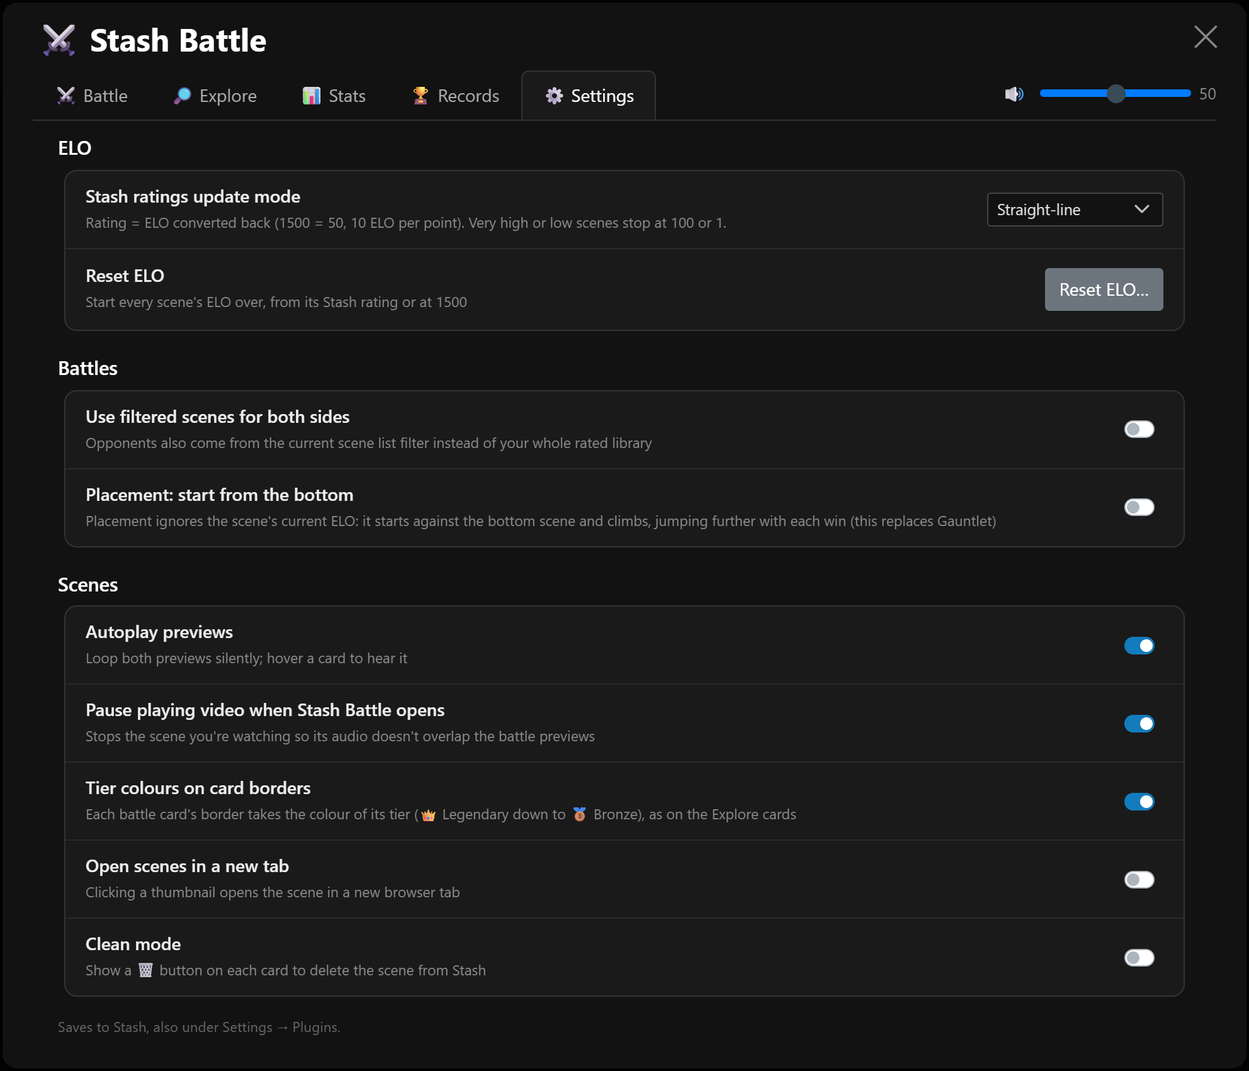
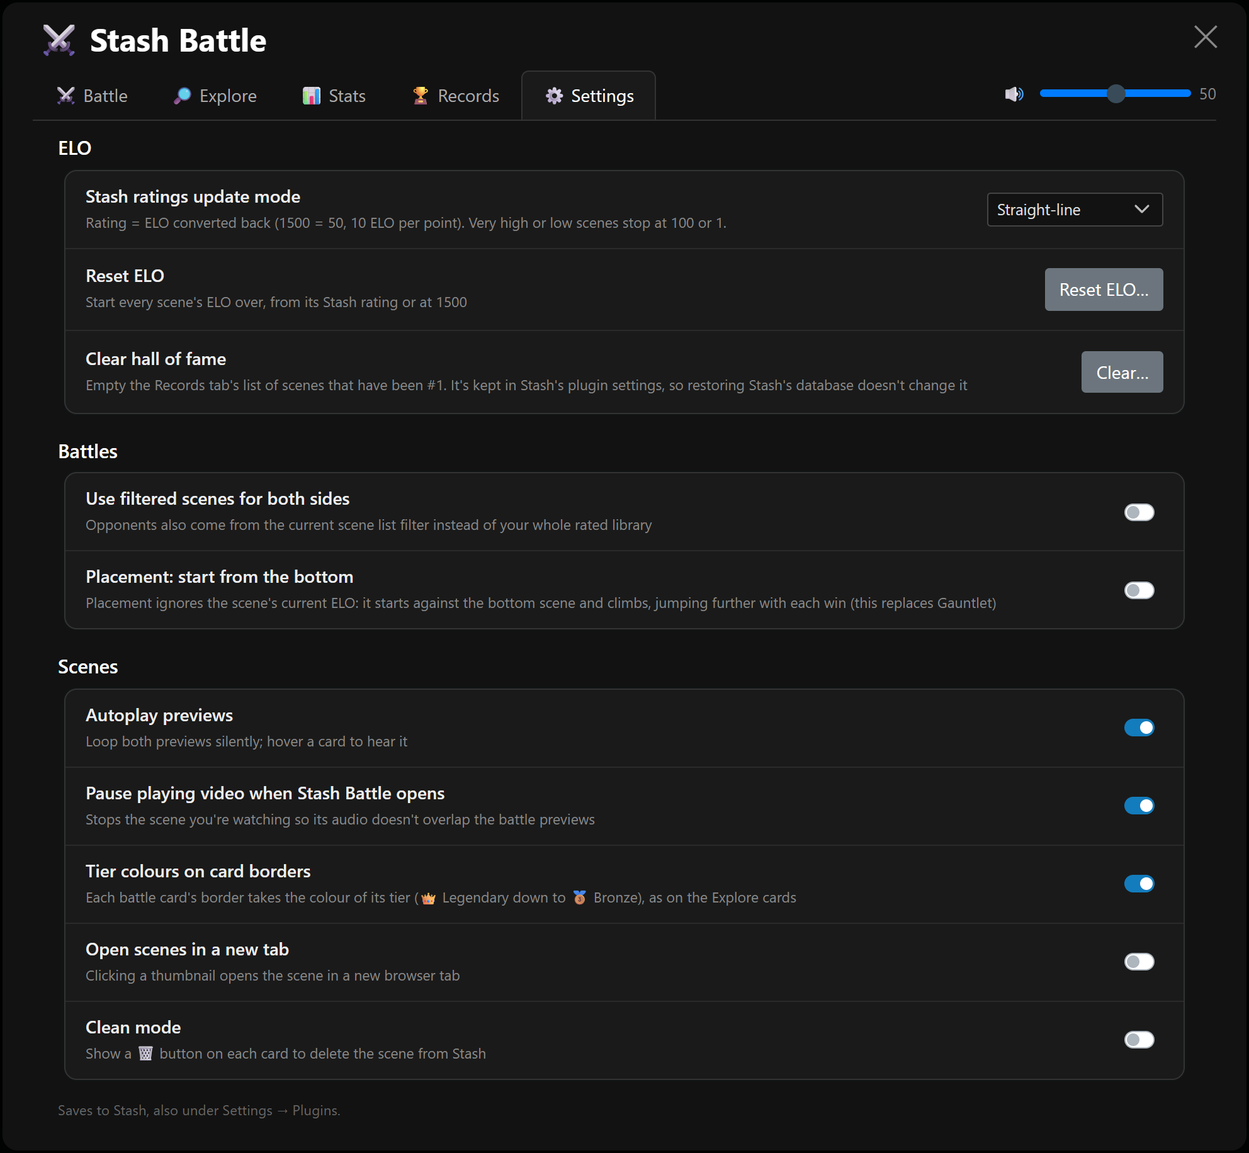
Clear hall of fame setting; undo puts back an unrated scene's Stash rating.
Settings → ELO → Clear hall of fame empties the list after a confirmation.
It lives in Stash's plugin settings (config.yml), so a database restore
leaves it. Undoing a pick that rated an unrated scene now restores the
Stash rating the sync gave it, in the same write that removes its ELO:
the sync only writes scenes with an ELO, so it never took it back.

diff --git a/plugins/stash-battle/stash-battle.js b/plugins/stash-battle/stash-battle.js
@@ -1430,7 +1430,7 @@
   }
   async function clearHallOfFame() {
     hallOfFame = [];
-    await saveConfig({ [HALL_OF_FAME_KEY]: null });
+    return saveConfig({ [HALL_OF_FAME_KEY]: null });
   }
   function updateSettings(patch) {
     state.settings = normalize({ ...state.settings, ...patch }, state.settings);
@@ -1470,12 +1470,13 @@
     if (a === null || b === null) return a === b;
     return JSON.stringify(eloCustomFields(a)) === JSON.stringify(eloCustomFields(b));
   }
-  async function saveEloFields(scene, value, customFields, what) {
+  async function saveEloFields(scene, value, customFields, what, rating100) {
     const previous = eloFields(latestScene(scene));
     setEloInCache(scene, value);
     refreshStashCache([{ id: scene.id, elo: value }], false);
     try {
-      await graphqlQuery(SCENE_UPDATE_MUTATION, { input: { id: scene.id, custom_fields: customFields } });
+      const input = { id: scene.id, custom_fields: customFields, ...rating100 !== void 0 ? { rating100 } : {} };
+      await graphqlQuery(SCENE_UPDATE_MUTATION, { input });
     } catch (e) {
       reportWriteError(scene.id, what, e);
       if (sameElo(eloFields(latestScene(scene)), value)) {
@@ -1483,6 +1484,10 @@
         refreshStashCache([{ id: scene.id, elo: previous }], false);
       }
       return false;
+    }
+    if (rating100 !== void 0) {
+      setRatingsInCache(/* @__PURE__ */ new Map([[scene.id, rating100]]));
+      refreshStashCache([{ id: scene.id, rating100 }], true);
     }
     scheduleStashRatingSync();
     return true;
@@ -1510,10 +1515,12 @@
     const top = state.memoryCache.allScenes?.[0];
     if (top && isRated(top) && !getHallOfFame().some((e) => e.id === top.id)) void addToHallOfFame(top.id);
   }
-  async function restoreElo(scene, value) {
-    if (sameElo(eloFields(latestScene(scene)), value)) return;
+  async function restoreElo(scene, value, rating100 = null) {
+    const current = latestScene(scene);
+    if (sameElo(eloFields(current), value)) return;
     const customFields = value ? { partial: eloCustomFields(value), ...value.record ? {} : { remove: RECORD_FIELD_KEYS } } : { remove: ELO_FIELD_KEYS };
-    if (await saveEloFields(scene, value, customFields, "undo ELO")) {
+    const ratingBack = value === null && (current.rating100 ?? null) !== rating100 ? rating100 : void 0;
+    if (await saveEloFields(scene, value, customFields, "undo ELO", ratingBack)) {
       console.log(`[Stash Battle] ↶ Restored scene ${scene.id} ELO ${value ? value.elo : "(unrated)"}`);
     }
   }
@@ -2360,6 +2367,12 @@
           title: "Reset ELO",
           hint: "Start every scene's ELO over, from its Stash rating or at 1500",
           button: "Reset ELO…"
+        },
+        {
+          action: "clear-hall-of-fame",
+          title: "Clear hall of fame",
+          hint: "Empty the Records tab's list of scenes that have been #1. It's kept in Stash's plugin settings, so restoring Stash's database doesn't change it",
+          button: "Clear…"
         }
       ]
     },
@@ -4016,7 +4029,7 @@
       left: choice.left,
       right: choice.right,
       ranks: [state.currentRanks.left, state.currentRanks.right],
-      fields: written.map((scene) => ({ scene, value: eloFields(latestScene(scene)) })),
+      fields: written.map((scene) => ({ scene, value: eloFields(latestScene(scene)), rating100: latestScene(scene).rating100 ?? null })),
       championScene: state.championScene,
       championWins: state.championWins,
       championDefeated: [...state.championDefeated],
@@ -4049,7 +4062,7 @@
     state.disableChoice = true;
     try {
       await eloWritesSettled();
-      await Promise.all(pick.fields.map(({ scene, value }) => restoreElo(scene, value)));
+      await Promise.all(pick.fields.map(({ scene, value, rating100 }) => restoreElo(scene, value, rating100)));
       await keepOnlyHallOfFame(pick.hallIds);
     } catch (e) {
       console.error("[Stash Battle] Undo couldn't put everything back:", e);
@@ -4646,6 +4659,21 @@
       })
     });
   }
+  async function confirmClearHallOfFame() {
+    const count = getHallOfFame().length;
+    await confirmDialog({
+      title: "Clear the hall of fame?",
+      body: `
+        <p>${count === 0 ? "The hall of fame is already empty." : `The ${plural(count, "scene")} that ${count === 1 ? "has" : "have"} been #1 will be taken off the list.`}
+        Your current #1 joins it again, from today, the next time you battle or open Records.</p>
+        <p>ELO and records aren't touched.</p>`,
+      confirmLabel: "Clear hall of fame",
+      workingLabel: "Clearing…",
+      action: async () => {
+        if (!await clearHallOfFame()) throw new Error("Couldn't save to Stash. Try again.");
+      }
+    });
+  }
   async function startResetElo(modal) {
     const ratingsOn = state.settings.stashRatings !== "off";
     const ok = await confirmDialog({
@@ -4929,6 +4957,7 @@
       stopExplorePool();
     });
     modal.querySelector('[data-action="reset-elo"]')?.addEventListener("click", () => void startResetElo(modal));
+    modal.querySelector('[data-action="clear-hall-of-fame"]')?.addEventListener("click", () => void confirmClearHallOfFame());
     modal.querySelector('[data-action="open-settings"]')?.addEventListener("click", (e) => {
       e.preventDefault();
       showTab(modal, "settings");

diff --git a/src/rating.ts b/src/rating.ts
@@ -38,12 +38,19 @@ function sameElo(a: EloFields | null, b: EloFields | null): boolean {
  * already sees the change), then write to Stash. If the write fails, put the old value back,
  * unless a later write has replaced it since. Stash ratings sync only after a successful write.
  */
-async function saveEloFields(scene: Scene, value: EloFields | null, customFields: Record<string, unknown>, what: string): Promise<boolean> {
+async function saveEloFields(
+  scene: Scene,
+  value: EloFields | null,
+  customFields: Record<string, unknown>,
+  what: string,
+  rating100?: number | null,
+): Promise<boolean> {
   const previous = eloFields(latestScene(scene));
   setEloInCache(scene, value);
   refreshStashCache([{ id: scene.id, elo: value }], false);
   try {
-    await graphqlQuery(SCENE_UPDATE_MUTATION, { input: { id: scene.id, custom_fields: customFields } });
+    const input = { id: scene.id, custom_fields: customFields, ...(rating100 !== undefined ? { rating100 } : {}) };
+    await graphqlQuery(SCENE_UPDATE_MUTATION, { input });
   } catch (e) {
     reportWriteError(scene.id, what, e);
     if (sameElo(eloFields(latestScene(scene)), value)) {
@@ -51,6 +58,10 @@ async function saveEloFields(scene: Scene, value: EloFields | null, customFields
       refreshStashCache([{ id: scene.id, elo: previous }], false);
     }
     return false;
+  }
+  if (rating100 !== undefined) {
+    setRatingsInCache(new Map([[scene.id, rating100]]));
+    refreshStashCache([{ id: scene.id, rating100 }], true);
   }
   scheduleStashRatingSync();
   return true;
@@ -96,13 +107,20 @@ export function noteTopScene(): void {
  * Put a scene's ELO fields back exactly as `value` (undo): a scene that had no record loses the
  * record fields its pick created, and one that was unrated loses its ELO again. Nothing is
  * written when they already match.
+ *
+ * A scene going back to unrated also gets its Stash rating from before (`rating100`) in the same
+ * write: the sync gave it one from its new ELO, and the sync only writes scenes that have an ELO,
+ * so it would never undo that itself. Rated scenes' ratings follow their restored ELO on the
+ * next sync.
  */
-export async function restoreElo(scene: Scene, value: EloFields | null): Promise<void> {
-  if (sameElo(eloFields(latestScene(scene)), value)) return;
+export async function restoreElo(scene: Scene, value: EloFields | null, rating100: number | null = null): Promise<void> {
+  const current = latestScene(scene);
+  if (sameElo(eloFields(current), value)) return;
   const customFields = value
     ? { partial: eloCustomFields(value), ...(value.record ? {} : { remove: RECORD_FIELD_KEYS }) }
     : { remove: ELO_FIELD_KEYS };
-  if (await saveEloFields(scene, value, customFields, "undo ELO")) {
+  const ratingBack = value === null && (current.rating100 ?? null) !== rating100 ? rating100 : undefined;
+  if (await saveEloFields(scene, value, customFields, "undo ELO", ratingBack)) {
     console.log(`[Stash Battle] ↶ Restored scene ${scene.id} ELO ${value ? value.elo : "(unrated)"}`);
   }
 }

diff --git a/src/ui/modal.ts b/src/ui/modal.ts
@@ -6,7 +6,7 @@ import { scenesListQuery } from "../filters";
 import { getSceneIdFromUrl, holdStashListRefresh, sceneCustomFieldsSupported } from "../graphql";
 import { applyStashRatings, queueRatingWrite, SCENE_MISSING_EVENT, scheduleStashRatingSync, writeStashRatings } from "../rating";
 import { stashRatingChanges } from "../score";
-import { loadSettings } from "../settings";
+import { clearHallOfFame, getHallOfFame, loadSettings } from "../settings";
 import { isEloSetupPending, resetRunState, resetShuffle, state } from "../state";
 import { loadState, saveState } from "../storage";
 import type { Mode, Settings, StashRatingsMode } from "../types";
@@ -29,7 +29,7 @@ import {
   verifyCurrentPair,
 } from "./mainUI";
 import { renderExploreTab, setExploreFilters } from "./exploreTab";
-import { stopMiniPreview } from "./miniCard";
+import { plural, stopMiniPreview } from "./miniCard";
 import { renderRecordsTab } from "./recordsTab";
 import { renderStatsTab, type StatsActions } from "./statsTab";
 import { bindSettingsControls, getActiveTab, showTab, syncSettingsControls } from "./settingsPanel";
@@ -98,6 +98,23 @@ async function confirmSettingChange(key: keyof Settings, value: string): Promise
 }
 
 /** Settings → Reset ELO: confirm, then show the setup choices again (Cancel goes back). */
+/** Settings → Clear hall of fame: after a confirmation, empty the list (today's #1 starts it again). */
+async function confirmClearHallOfFame(): Promise<void> {
+  const count = getHallOfFame().length;
+  await confirmDialog({
+    title: "Clear the hall of fame?",
+    body: `
+        <p>${count === 0 ? "The hall of fame is already empty." : `The ${plural(count, "scene")} that ${count === 1 ? "has" : "have"} been #1 will be taken off the list.`}
+        Your current #1 joins it again, from today, the next time you battle or open Records.</p>
+        <p>ELO and records aren't touched.</p>`,
+    confirmLabel: "Clear hall of fame",
+    workingLabel: "Clearing…",
+    action: async () => {
+      if (!(await clearHallOfFame())) throw new Error("Couldn't save to Stash. Try again.");
+    },
+  });
+}
+
 async function startResetElo(modal: HTMLElement): Promise<void> {
   const ratingsOn = state.settings.stashRatings !== "off";
   const ok = await confirmDialog({
@@ -460,6 +477,7 @@ export async function openModal(): Promise<void> {
   });
 
   modal.querySelector('[data-action="reset-elo"]')?.addEventListener("click", () => void startResetElo(modal));
+  modal.querySelector('[data-action="clear-hall-of-fame"]')?.addEventListener("click", () => void confirmClearHallOfFame());
   // Battle tab note's "change in Settings" link
   modal.querySelector('[data-action="open-settings"]')?.addEventListener("click", (e) => {
     e.preventDefault();

diff --git a/src/ui/mainUI.ts b/src/ui/mainUI.ts
@@ -831,7 +831,7 @@ interface PickSnapshot {
   right: Scene;
   ranks: [Rank, Rank];
   /** The scenes the pick writes (Placement's scene is written when it lands), with their fields before. */
-  fields: { scene: Scene; value: EloFields | null }[];
+  fields: { scene: Scene; value: EloFields | null; rating100: number | null }[];
   championScene: Scene | null;
   championWins: number;
   championDefeated: string[];
@@ -851,7 +851,7 @@ function takePickSnapshot(choice: SceneChoice): PickSnapshot {
     left: choice.left,
     right: choice.right,
     ranks: [state.currentRanks.left, state.currentRanks.right],
-    fields: written.map((scene) => ({ scene, value: eloFields(latestScene(scene)) })),
+    fields: written.map((scene) => ({ scene, value: eloFields(latestScene(scene)), rating100: latestScene(scene).rating100 ?? null })),
     championScene: state.championScene,
     championWins: state.championWins,
     championDefeated: [...state.championDefeated],
@@ -897,7 +897,7 @@ export async function undoLastPick(): Promise<void> {
   state.disableChoice = true;
   try {
     await eloWritesSettled();
-    await Promise.all(pick.fields.map(({ scene, value }) => restoreElo(scene, value)));
+    await Promise.all(pick.fields.map(({ scene, value, rating100 }) => restoreElo(scene, value, rating100)));
     await keepOnlyHallOfFame(pick.hallIds);
   } catch (e) {
     console.error("[Stash Battle] Undo couldn't put everything back:", e);

diff --git a/src/ui/settingsPanel.ts b/src/ui/settingsPanel.ts
@@ -12,7 +12,7 @@ export type TabId = "battle" | "explore" | "stats" | "records" | "settings";
 
 type SettingRow =
   | { key: keyof Settings; title: string; hint: string; className?: string }
-  | { action: "reset-elo"; title: string; hint: string; button: string };
+  | { action: "reset-elo" | "clear-hall-of-fame"; title: string; hint: string; button: string };
 
 const SECTIONS: { title: string; rows: SettingRow[] }[] = [
   {
@@ -25,6 +25,12 @@ const SECTIONS: { title: string; rows: SettingRow[] }[] = [
         title: "Reset ELO",
         hint: "Start every scene's ELO over, from its Stash rating or at 1500",
         button: "Reset ELO…",
+      },
+      {
+        action: "clear-hall-of-fame",
+        title: "Clear hall of fame",
+        hint: "Empty the Records tab's list of scenes that have been #1. It's kept in Stash's plugin settings, so restoring Stash's database doesn't change it",
+        button: "Clear…",
       },
     ],
   },

diff --git a/src/settings.ts b/src/settings.ts
@@ -233,10 +233,10 @@ export async function keepOnlyHallOfFame(keepIds: readonly string[]): Promise<vo
   });
 }
 
-/** Empty the list (setup and Reset ELO start every record over). */
-export async function clearHallOfFame(): Promise<void> {
+/** Empty the list (setup, Reset ELO, Settings → Clear hall of fame). Resolves false if saving failed. */
+export async function clearHallOfFame(): Promise<boolean> {
   hallOfFame = [];
-  await saveConfig({ [HALL_OF_FAME_KEY]: null });
+  return saveConfig({ [HALL_OF_FAME_KEY]: null });
 }
 
 /** Update settings locally right away and persist to Stash (debounced, for sliders). */

diff --git a/src/cache.ts b/src/cache.ts
@@ -410,7 +410,7 @@ export function setEloInCache(scene: Scene, value: EloFields | null): void {
 }
 
 /** Set the Stash rating on cached scenes (after Stash Battle wrote them). Order is ELO, so unchanged. */
-export function setRatingsInCache(ratings: Map<string, number>): void {
+export function setRatingsInCache(ratings: Map<string, number | null>): void {
   for (const pool of [state.memoryCache.allScenes, state.memoryCache.filteredScenes]) {
     for (const scene of pool ?? []) {
       const rating = ratings.get(scene.id);

diff --git a/src/graphql.ts b/src/graphql.ts
@@ -81,7 +81,7 @@ export function sceneCustomFieldsSupported(): Promise<boolean> {
 /** A change Stash Battle wrote to a scene, to mirror into Stash's own page cache. */
 export interface StashCacheUpdate {
   id: string;
-  rating100?: number;
+  rating100?: number | null;
   /** New ELO fields, or null when they were removed. */
   elo?: EloFields | null;
 }

diff --git a/DOCUMENTATION.md b/DOCUMENTATION.md
@@ -535,7 +535,8 @@ The click handler is bound once per panel (`dataset.bound`), not on every render
 - `noteTopScene()` runs after each ELO write: if the library's #1 (the all-scenes cache's first scene) is rated and not in the list, `addToHallOfFame` adds it.
 - Saves go through `saveConfig`'s queue and **merge** with the stored list (`mergeHallOfFame`: one entry per scene, the earliest date kept, sorted by full time), so two tabs can't drop each other's entries.
 - `parseHallOfFame` drops anything unreadable: entries need a string id and a date `Date.parse` can read.
-- Setup and Reset ELO empty it (`clearHallOfFame`); undo removes an entry the undone pick added (`keepOnlyHallOfFame`).
+- Setup and Reset ELO empty it (`clearHallOfFame`), and so does **Settings → ELO → Clear hall of fame** (a confirmation dialog, `confirmClearHallOfFame` in `modal.ts`; the current #1 joins again on the next ELO write or Records opening). Undo removes an entry the undone pick added (`keepOnlyHallOfFame`).
+- **A database restore doesn't touch it.** Stash keeps plugin settings in its config file (`config.yml`), not the database, so restoring a database backup brings back old scenes, ELO and records but leaves the hall of fame (and every other Stash Battle setting, `eloSetupAt` included) as they were. That's what Clear hall of fame is for.
 
 ---
 
@@ -545,7 +546,7 @@ The click handler is bound once per panel (`dataset.bound`), not on every render
 
 - `handleSceneChoice` takes a `PickSnapshot` before the pick: the mode, the pair and its ranks, the ELO fields of every scene the pick writes (both in Swiss and Champion; Placement's scene, which is written when it lands), Champion's run (scene, wins, defeated), a copy of the Placement run, and the hall of fame's ids.
 - `undoLastPick` cancels the next-pair timer (`scheduleNextPair`) and bumps `pairLoads`, so a pair load already under way stops before showing anything (each `loadNewPair` checks it's still the newest after every await). It waits for writes still on their way (`eloWritesSettled`), then `restoreElo` writes each scene's fields back exactly: a scene that had no record loses the record fields its pick created, and one that was unrated loses its ELO again. Nothing is written when the fields already match.
-- Then the run state, the mode (if it changed since), and the same pair come back, to pick again. Stash ratings follow on their own (the next sync after the restore).
+- Then the run state, the mode (if it changed since), and the same pair come back, to pick again. Rated scenes' Stash ratings follow their restored ELO on the next sync. A scene the pick took from unrated to rated is different: the sync gave it a Stash rating, and the sync only writes scenes with an ELO, so it would never take that back. The snapshot keeps each scene's `rating100`, and `restoreElo` puts it back (or clears it) in the same `sceneUpdate` that removes the ELO fields.
 - Setup and Reset ELO clear the snapshot (`clearUndo`): its values no longer apply. Checked live in all three modes, including Placement mid-run and after landing.
 
 ---
@@ -554,7 +555,7 @@ The click handler is bound once per panel (`dataset.bound`), not on every render
 
 **UI**: the modal header has a Stash-style tab bar (`nav nav-tabs`): **⚔ Battle** · **🔎 Explore** · **📊 Stats** · **🏆 Records** · **⚙ Settings** on the left, the preview volume on the right (visible on every tab). On phones ≤480px the volume slider hides (the speaker still mutes; a "Preview volume" row appears in Settings instead, `sb-setting-phone-only`), and the tabs you're not on show only their emoji (≤360px: every tab), each at least 44 × 44px, names kept as `aria-label` / tooltip. The tabs shrink and scroll sideways rather than widen the modal. Tabs swap `.sb-tab-panel` elements in place. The Settings tab reuses Stash's `.setting-section` / `.setting` rows and `custom-switch` toggles; `.sb-settings-tab` only re-tints them. The dropdown is drawn in the modal's dark palette with a chevron (Stash sets `appearance: none` on selects). The modal always reopens on the Battle tab. While Settings is showing, battle shortcuts are off and previews are paused.
 
-Sections: **ELO** (Stash ratings update mode, Reset ELO), **Battles**, **Scenes**.
+Sections: **ELO** (Stash ratings update mode, Reset ELO, Clear hall of fame), **Battles**, **Scenes**.
 
 Stored in Stash's plugin config (`configuration.plugins["stash-battle"]`, written with `configurePlugin`) so they follow the user across devices; most are also declared under `settings:` in `stash-battle.yml` so they appear in Stash → Settings → Plugins. `openModal()` awaits `loadSettings()` each time, and a reused modal re-syncs its controls.
 
@@ -653,7 +654,7 @@ All data comes from Stash's GraphQL API:
 
 ## Common Pitfalls & Edge Cases
 
-1. **Never write `rating100` outside the Stash ratings sync.** Battles write ELO only (`writeElo`); Stash ratings change only through `writeStashRatings` (setup, the dropdown switch, `syncStashRatings`).
+1. **Never write `rating100` outside the Stash ratings sync.** Battles write ELO only (`writeElo`); Stash ratings change only through `writeStashRatings` (setup, the dropdown switch, `syncStashRatings`). The one exception: undoing a pick that rated an unrated scene puts back the Stash rating the sync wrote for it (`restoreElo`, see Undo Last Pick).
 
 2. **Custom field writes must use `partial` / `remove` with our keys**, never `full`: other plugins store their own fields on the same scenes.
 

diff --git a/CHANGELOG.md b/CHANGELOG.md
@@ -29,7 +29,7 @@ A new rating system: Stash Battle now keeps a true ELO score for every scene, se
 - **Undo last pick** ↶ (the Undo button, or Backspace): takes back both scenes' ELO and records, a Champion streak or Placement run, and brings the same pair back. Also on the Champion and Placement end screens.
 - **🔎 Explore tab**: your library as small cards, ranked by ELO, a page at a time (30 to 240, or all). Search by title, studio or performer; filter by tier, provisional or unrated, or an ELO range; sort by ELO, plays, battles, best record, highest peak or longest win streak. Hover for the preview, click to open the scene, ⚔ to battle it. **Battle these N scenes** battles what the filter shows until you press Stop: against your whole library, or against each other with "Use filtered scenes for both sides". Unrated scenes go to Placement.
 - **📊 Stats tab**: an overview; **how settled** your rankings are, with **Battle the least-tested** (Swiss puts your least-battled scenes on the left first); the **ELO distribution** with your Stash rating scale under it (click a bar to see those scenes in Explore); and **hidden gems / overplayed** (ELO against play count, hover a dot to see the scene).
-- **🏆 Records tab**: the **hall of fame** (every scene that has ever been #1, and when), the **longest win streaks** and the **highest peak ELOs**. Each scene's wins, losses, peak and streaks are saved in its custom fields with its ELO (no extra requests); the hall of fame is saved in Stash Battle's plugin settings. Setup and Reset ELO start them over.
+- **🏆 Records tab**: the **hall of fame** (every scene that has ever been #1, and when), the **longest win streaks** and the **highest peak ELOs**. Each scene's wins, losses, peak and streaks are saved in its custom fields with its ELO (no extra requests); the hall of fame is saved in Stash Battle's plugin settings. Setup and Reset ELO start them over, and **Settings → Clear hall of fame** empties the list on its own (useful after restoring a database backup, which doesn't change plugin settings).
 - **Scene pages** show the scene's ELO and rank too, next to the play count and O count, with its tier emoji as the icon. Click it to battle that scene. Stash's Custom Fields list is widened so Stash Battle's field names aren't cut off.
 - **Phones and tablets**: tap a thumbnail to play or stop its preview, 🔊 / 🔇 on each card to hear or mute it, ↗ to open the scene. Tabs shrink to their emoji on small phones. When Stash folds its menu away (below 1200px wide), a ⚔ button sits in the top bar next to other plugins' buttons.
 

diff --git a/README.md b/README.md
@@ -50,12 +50,12 @@ ELO is saved in each scene's custom fields, so **Stash Battle doesn't touch your
   - **ELO distribution**, with your Stash rating scale under it. Click a bar to see those scenes in Explore.
   - **Hidden gems / overplayed**: ELO against play count. Top left are scenes you rank highly but rarely watch. Hover a dot to see the scene.
 
-- **🏆 Records tab**: the **hall of fame** (every scene that has ever been #1, and when it got there), the **longest win streaks** and the **highest peak ELOs**.
+- **🏆 Records tab**: the **hall of fame** (every scene that has ever been #1, and when it got there), the **longest win streaks** and the **highest peak ELOs**. The hall of fame is saved in Stash's plugin settings, so restoring a database backup doesn't change it; **Settings → Clear hall of fame** empties it.
 
 - **On Stash's scene pages**, the same `ELO 1740 · #50` sits next to the play count and O count, with the scene's tier emoji as its icon (⚔ while it has no tier). Click it to battle that scene.
 
 - **Settings tab** (most also under Stash's Settings → Plugins). Saves to Stash:
-  - **Stash ratings update mode** and **Reset ELO** (see above)
+  - **Stash ratings update mode**, **Reset ELO** (see above) and **Clear hall of fame**
   - **Use filtered scenes for both sides**
   - **Placement: start from the bottom**
   - **Autoplay previews** – both loop silently; hover a card to hear it (on by default)
